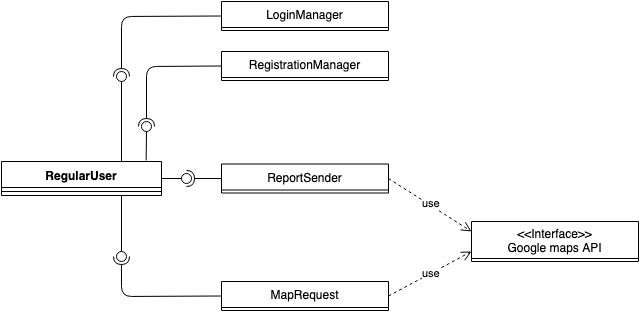
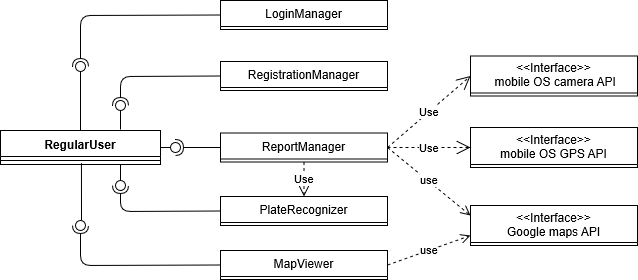
Further development of client components

diff --git a/DD/Files/architectural.tex b/DD/Files/architectural.tex
@@ -8,7 +8,7 @@ Given the nature of the application, a three layer approach has been chosen.\new
 \newline
 As shown by the image above, the three layers consist in the presentation tier, the logic tier and the data tier
 \begin{itemize}
-\item Presentation Tier: consists of the user interfaces for all of the three clients (RegularUser, Policeman and MunicipalAuthority) and is used by the user to interact with both the application logic and Google Mapd APIs \newline
+\item Presentation Tier: consists of the user interfaces for all of the three clients (RegularUser, Policeman and MunicipalAuthority) and is used by the user to interact with both the application logic and Google Maps APIs \newline
 \item Logic Tier: consists of the servers used to control the functionalities of the application, interacts with both the presentation and data tiers \newline
 \item Data Tier: consists of the database server (where both user data and data generated by the application are stored), interacts only with the logic tier \newline
 \end{itemize}
@@ -74,23 +74,25 @@ The components represented in this diagram are:
 \begin{itemize}
 	\item LoginManager: Allows users to send their log data to the server in order to login or logout from the system.
 	\item RegistrationManager: Allows users to send  their registration data to the server in order to create a new account.
-	\item ReportSender: Allows users to send a report about traffic violations, packing all the required data in a suitable format to be sent to the server. This component also uses Google maps API in order to recover informations about the area around user's geographical position.
+	\item ReportManager: Allows users to send a report about traffic violations, packing all the required data in a suitable format to be sent to the server. This component also uses Google maps API in order to recover informations about the area around user's geographical position.
+	\item PlateRecognizer:
 	\item MapViewer: Allows the user to visualize a geographical map from Google maps API enriched by data about unsafe areas, statistics and traffic violations coming from the server.
 \end{itemize}
 
 \begin{figure}[h!]
 	\centering
-	\includegraphics[scale=0.7]{Images/PolicemenClient}
-	\caption{Relation between components inside policemen client}
+	\includegraphics[scale=0.7]{Images/PolicemanClient}
+	\caption{Relation between components inside policeman client}
 \end{figure}
 
 The components represented in this diagram are:
 \begin{itemize}
 	\item LoginManager: It has the same function as in the regular user client.
-	\item ReportSender: Allows Policeman to send a traffic violation report with all the required data, packed in a correct format, to the server.
+	\item ReportManager: Allows Policeman to send a traffic violation report with all the required data, packed in a correct format, to the server.
 	This component also uses Google maps API in order to recover informations about the area around user's geographical position.\newline
 	It's worth noting that if a policeman sends a report about a violation, he is automatically assigned to solving it.
-	\item ViolationMapViewer: Allows a policeman to visualize the list of the various pending reportsfor his municipality.
+	\item PlateRecognizer: 
+	\item MapViewer: Allows a policeman to visualize the list of the various pending reportsfor his municipality.
 	The locations of theeports will be shown on a map provided through Google maps API.
 	\item PoliceActionManager: Allows a policeman to signal that his intention to take care of a report. This component will send a suitable message to server which will update its data accordingly, marking the considered report as under analisys.
 	
@@ -98,8 +100,8 @@ The components represented in this diagram are:
 \newpage
 \begin{figure}[H]
 	\centering
-	\includegraphics[scale=0.7]{Images/MunicipalAuthoritiesClient}
-	\caption{Relation between components inside municipal authorities client}
+	\includegraphics[scale=0.7]{Images/MunicipalAuthorityClient}
+	\caption{Relation between components inside municipal authority client}
 \end{figure}
 The components represented in this diagram are:
 \begin{itemize}

diff --git a/DD/Files/implementation.tex b/DD/Files/implementation.tex
@@ -2,7 +2,7 @@ In this Section SafeStreets implementation, integration and testing will be disc
 \\
 
 \subsection{Implementation Plan}
-SafeStreets implementation wil start from the data tier moving towards presentation tier. The decision of this development order aims to semplify  the unit-test of every component and to garantee testing for all component implemented at a given time. This implementation plan follows the flow of information that derives from the proposed client-server structure.\newline
+SafeStreets implementation wil start from the data tier moving towards presentation tier. The decision of this development order aims to semplify  the unit-test of every component and to guarantee testing for all component implemented at a given time. This implementation plan follows the flow of information that derives from the proposed client-server structure.\newline
 Thus, SafeStreets implementation will follow this order:
 \begin{itemize}
 	\item Database server: the database server will be the first part to be implemented, since all of its functions (ranging from submitting reports to even allow users to log in and out of the app) depend on it. A relational database management system has been chosen
@@ -14,7 +14,7 @@ Thus, SafeStreets implementation will follow this order:
 		\item ReportHandler
 		\item ReportRetriever
 		\item PoliceActionHandler
-		\item DatFilter
+		\item DataFilter
 		\item QueryOnAnalyzedData
 	\end{itemize}
 	This sequence is necessary because, in order to be able to perform any kind of action, there must be registered users (UserRegistration) and said users need to be able to log in their accounts(LogOperations) and submit reports(ReportHandler). Also, police has to be able to take action on said reports (ReportRetriever, then PoliceActionHandler) and municipal authorities must be able to mine data and cross database informations (ReportRetriver, then DataFilter). Last but not least, users need to query data mined by the authorities (QueryOnAnalizedData).

diff --git a/DD/Files/introduction.tex b/DD/Files/introduction.tex
@@ -13,11 +13,11 @@ The aspects covered by the design document are:
 SafeStreets is a software that aims to collect data coming from registered users in the form of reports and allow either basic users, policemen and municipalities to mine this data with different levels of detail.
 The stakeholders of the system will be:
 \begin{itemize}
-	\item Users: Simple users that want to report traffic violations or have insight of the most unsafe areas of a city.
+	\item Regolar Users: Simple users that want to report traffic violations or have insight of the most unsafe areas of a city.
 	\item Policemen: Members of the local police that need to access the data about users' reports and possibly take actions based on these. 
-	\item Municipalities: Members of the municipality that need to mine data to strengthen city's safety.
+	\item Municipal Authorities: Members of the municipality that need to analyse data in order to strengthen city safety.
 \end{itemize}
-Data coming from the users is collected by SafeStreets servers that organises reports and build statistics out of them.
+Data coming from the users is collected by SafeStreets servers that organise reports and build statistics out of them.
 They also collect data coming from municipalities and cross it with informations collected from the users.
 The main functions of SafeStreets are managing request from different users and saving and protecting a relevant ammount of data.\newline
 A registration is needed to exploit the various functionalities, reducing the possibility of false reports. Personal and sensitive informations required during registration process, are quite limited and only collected in order to reduce service abuse. In this way the system ensures an adeguate level of user privacy, reducing at the same time the costs of sensitive data management and protection.\newline
